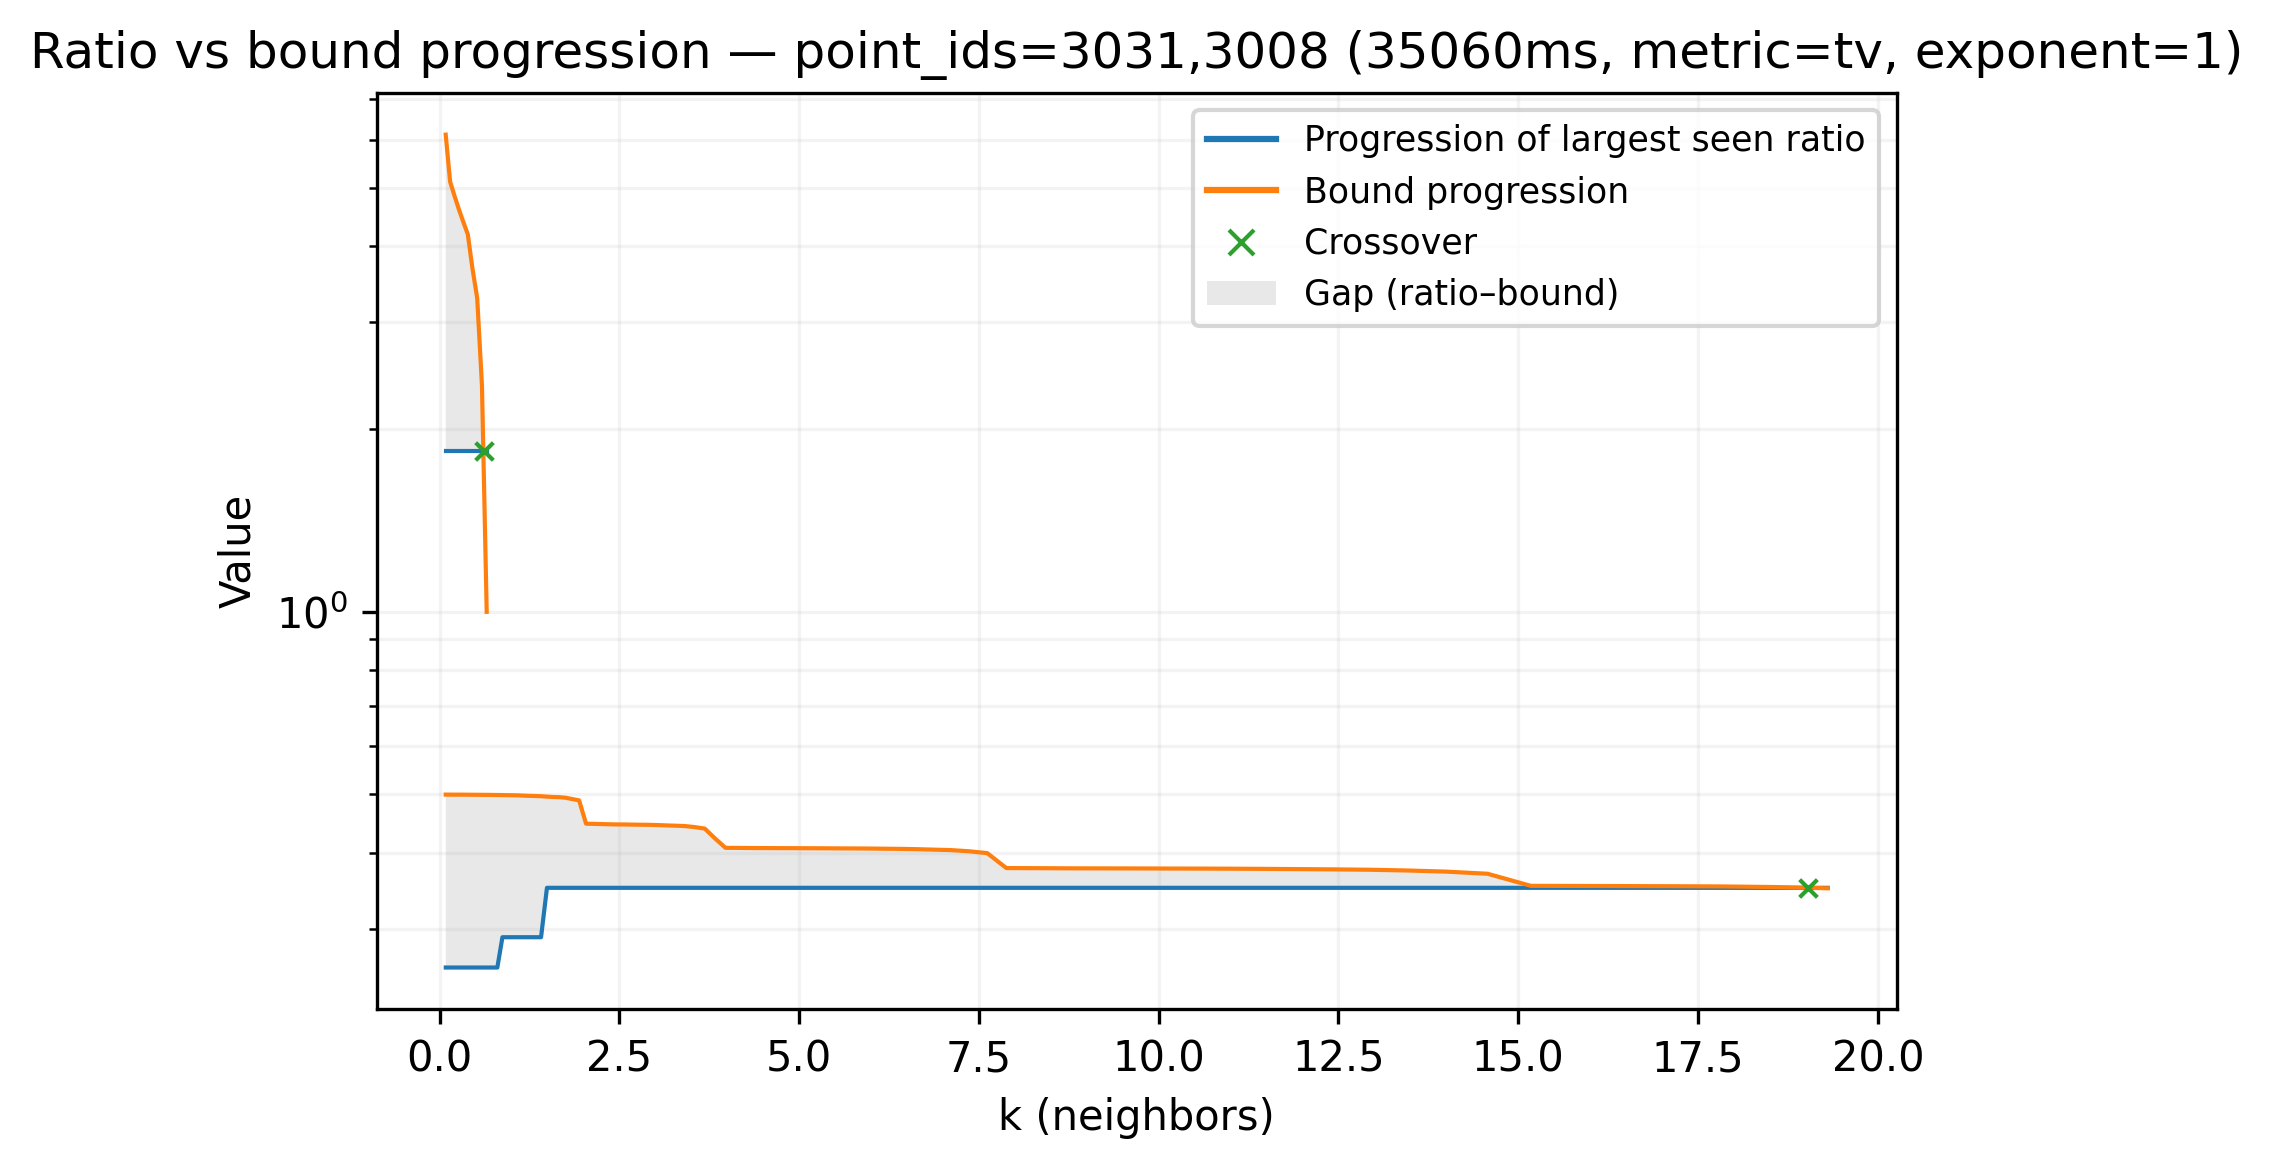
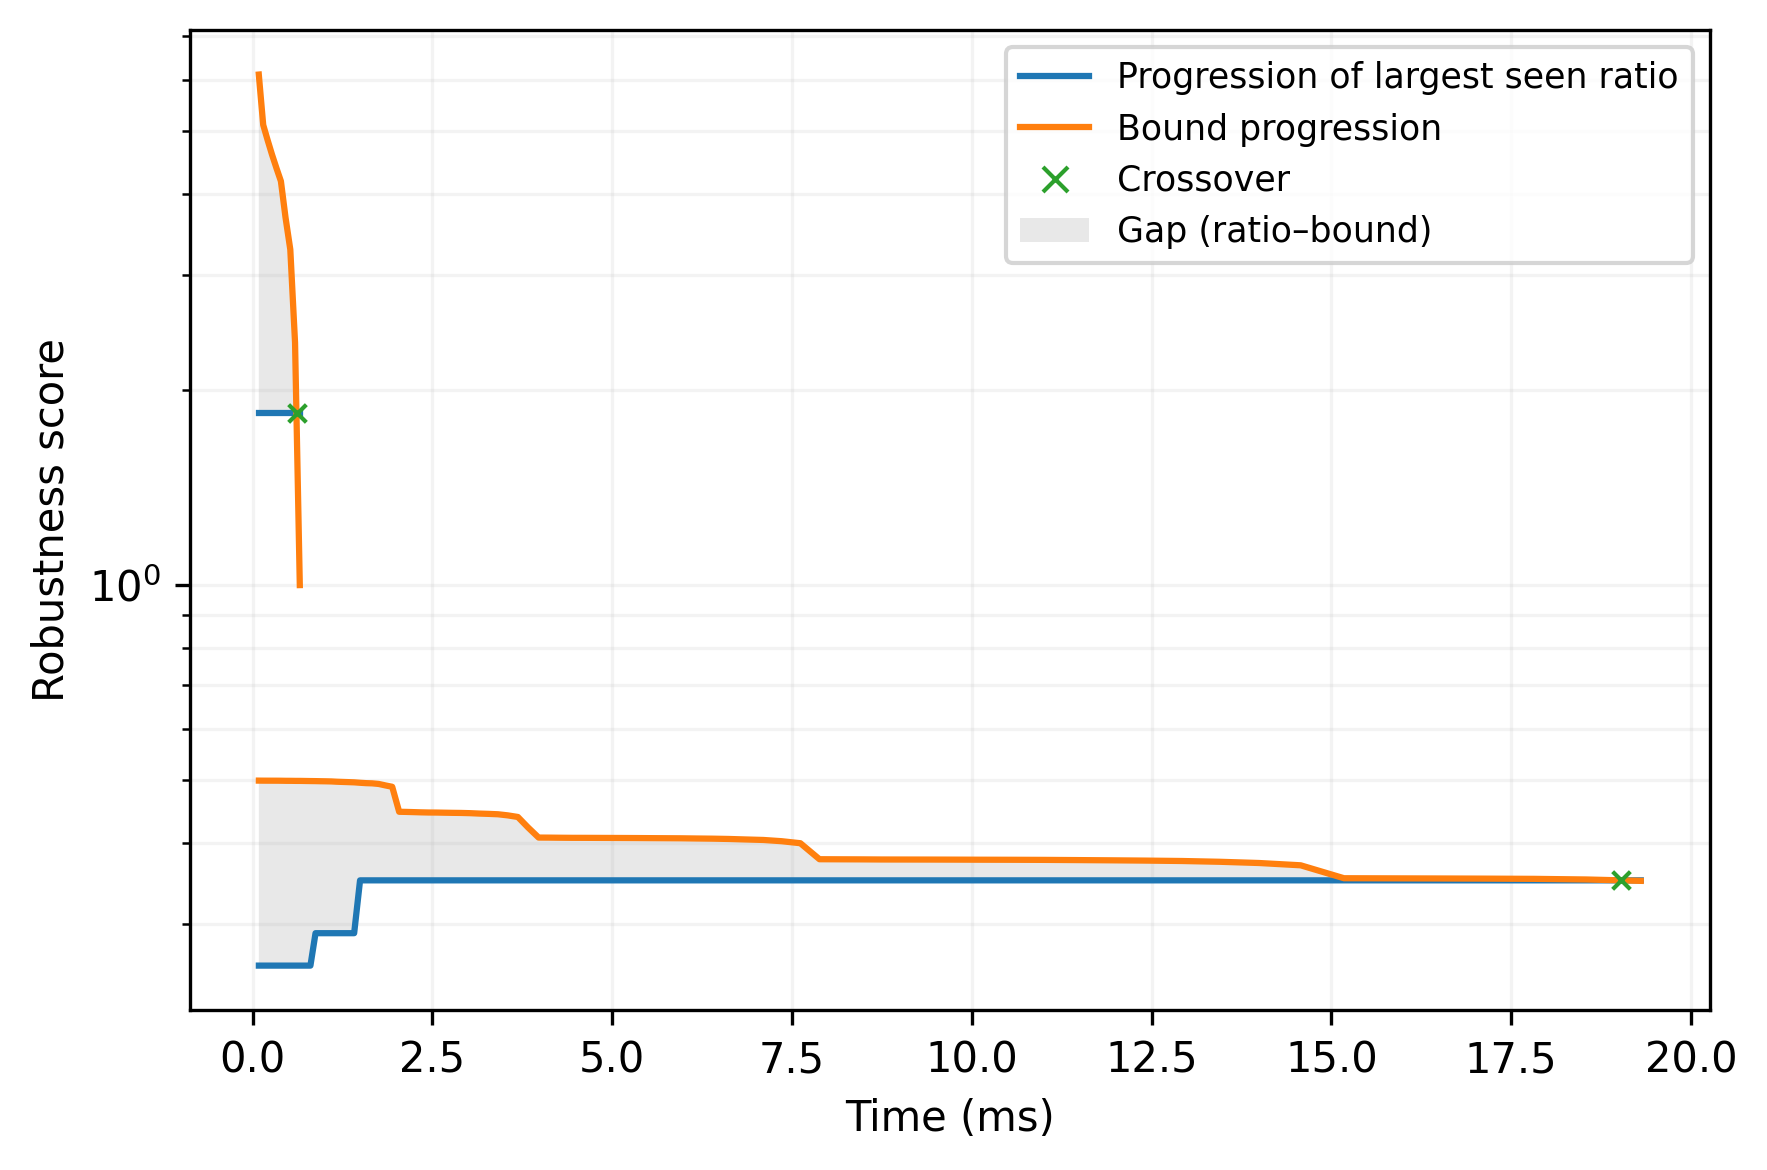
polish progressions plot

diff --git a/results/quantitative/plot_progressions.py b/results/quantitative/plot_progressions.py
@@ -82,6 +82,16 @@ def main() -> None:
         type=str,
         help="Comma-separated point IDs to plot instead of automatic top selections",
     )
+    parser.add_argument(
+        "--no-title",
+        action="store_true",
+        help="Whether to include figure title",
+    )
+    parser.add_argument(
+        "--use-time",
+        action="store_true",
+        help="Use ms_progression values for the x-axis instead of k_progression",
+    )
     args = parser.parse_args()
 
     script_dir = Path(__file__).resolve().parent
@@ -98,6 +108,8 @@ def main() -> None:
             fill_between=args.fill_between,
             output_dir=args.output_dir,
             point_ids=point_ids,
+            use_time=args.use_time,
+            no_title=args.no_title,
         )
 
 
@@ -110,11 +122,13 @@ def _generate_plots(
     fill_between: bool,
     output_dir: Optional[Path],
     point_ids: Optional[list[int]],
+    use_time: bool,
+    no_title: bool,
 ) -> None:
     with json_path.open("r", encoding="utf-8") as fh:
         payload = json.load(fh)
 
-    records = _filter_records(payload.get("records", []))
+    records = _filter_records(payload.get("records", []), require_time=use_time)
     if not records:
         print(f"No progression records found in {json_path}")
         return
@@ -177,6 +191,8 @@ def _generate_plots(
             alpha=alpha,
             line_width=line_width,
             fill_between=fill_between,
+            use_time=use_time,
+            no_title=no_title,
         )
         return
 
@@ -196,6 +212,8 @@ def _generate_plots(
             alpha=alpha,
             line_width=line_width,
             fill_between=fill_between,
+            use_time=use_time,
+            no_title=no_title,
         )
     else:
         print(f"No records with compared_count data in {json_path}")
@@ -211,12 +229,14 @@ def _generate_plots(
             alpha=alpha,
             line_width=line_width,
             fill_between=fill_between,
+            use_time=use_time,
+            no_title=no_title,
         )
     else:
         print(f"No records with max_ratio data in {json_path}")
 
 
-def _filter_records(raw_records: Iterable[dict]) -> list[dict]:
+def _filter_records(raw_records: Iterable[dict], *, require_time: bool) -> list[dict]:
     filtered = []
     for record in raw_records:
         k = record.get("k_progression")
@@ -226,6 +246,10 @@ def _filter_records(raw_records: Iterable[dict]) -> list[dict]:
             continue
         if len(k) != len(ratio) or len(k) != len(bound):
             continue
+        if require_time:
+            ms = record.get("ms_progression")
+            if not ms or len(ms) != len(ratio):
+                continue
         filtered.append(record)
     return filtered
 
@@ -251,6 +275,8 @@ def _render_overlay(
     alpha: float,
     line_width: float,
     fill_between: bool,
+    use_time: bool,
+    no_title: bool,
 ) -> None:
     fig, ax = plt.subplots(figsize=DEFAULT_FIGSIZE)
 
@@ -260,9 +286,18 @@ def _render_overlay(
     intersection_points_y: list[float] = []
 
     for record in records:
-        k_vals = np.asarray(record["k_progression"], dtype=float)
-        ratio_vals = np.asarray(record["ratio_progression"], dtype=float)[-len(k_vals):]
-        bound_vals = np.asarray(record["bound_progression"], dtype=float)[-len(k_vals):]
+        x_key = "ms_progression" if use_time else "k_progression"
+        x_vals = np.asarray(record[x_key], dtype=float)
+        ratio_vals = np.asarray(record["ratio_progression"], dtype=float)
+        bound_vals = np.asarray(record["bound_progression"], dtype=float)
+
+        limit = min(len(x_vals), len(ratio_vals), len(bound_vals))
+        x_vals = x_vals[:limit]
+        ratio_vals = ratio_vals[:limit]
+        bound_vals = bound_vals[:limit]
+
+        if limit == 0:
+            continue
 
         ratio_min = float(np.nanmin(ratio_vals))
         bound_min = float(np.nanmin(bound_vals))
@@ -270,7 +305,7 @@ def _render_overlay(
         min_bound = bound_min if min_bound is None else min(min_bound, bound_min)
 
         optional_intersection = _add_progression_to_ax(
-            ax, k_vals, ratio_vals, bound_vals,
+            ax, x_vals, ratio_vals, bound_vals,
             alpha=alpha,
             line_width=line_width,
             fill_between=fill_between,
@@ -291,7 +326,7 @@ def _render_overlay(
         zorder=5,
     )
 
-    _configure_axes(fig, ax, metadata, description, min_ratio, min_bound)
+    _configure_axes(fig, ax, metadata, description, min_ratio, min_bound, use_time, fill_between, no_title)
 
     fig.savefig(output_path, dpi=DEFAULT_DPI, bbox_inches="tight")
     print(f"Saved progression overlay to {output_path}")
@@ -300,7 +335,7 @@ def _render_overlay(
 
 def _add_progression_to_ax(
     ax: plt.Axes,
-    k_vals: np.ndarray,
+    x_vals: np.ndarray,
     ratio_vals: np.ndarray,
     bound_vals: np.ndarray,
     *,
@@ -308,8 +343,8 @@ def _add_progression_to_ax(
     line_width: float,
     fill_between: bool,
 ) -> Optional[tuple[float, float]]:
-    ax.plot(k_vals, ratio_vals, color=RATIO_COLOR, linewidth=line_width, alpha=alpha)
-    ax.plot(k_vals, bound_vals, color=BOUND_COLOR, linewidth=line_width, alpha=alpha)
+    ax.plot(x_vals, ratio_vals, color=RATIO_COLOR, linewidth=line_width, alpha=alpha)
+    ax.plot(x_vals, bound_vals, color=BOUND_COLOR, linewidth=line_width, alpha=alpha)
 
     # shading between ratio and bound
     if fill_between:
@@ -318,7 +353,7 @@ def _add_progression_to_ax(
             last_valid_idx = np.where(ratio_vals < bound_vals)[0][-1]
 
         ax.fill_between(
-            k_vals[:last_valid_idx + 1],
+            x_vals[:last_valid_idx + 1],
             ratio_vals[:last_valid_idx + 1],
             bound_vals[:last_valid_idx + 1],
             facecolor=FILL_COLOR,
@@ -327,11 +362,11 @@ def _add_progression_to_ax(
             zorder=0,
         )
 
-    return _find_intersection(k_vals, ratio_vals, bound_vals)
+    return _find_intersection(x_vals, ratio_vals, bound_vals)
 
 
 def _find_intersection(
-    k_vals: np.ndarray,
+    x_vals: np.ndarray,
     ratio_vals: np.ndarray,
     bound_vals: np.ndarray,
 ) -> Optional[tuple[float, float]]:
@@ -339,16 +374,16 @@ def _find_intersection(
     for idx, current in enumerate(diff):
         if current >= 0:
             if idx == 0 or diff[idx - 1] >= 0:
-                return float(k_vals[idx]), float(ratio_vals[idx])
+                return float(x_vals[idx]), float(ratio_vals[idx])
 
             prev_diff = diff[idx - 1]
             if prev_diff == current:
-                return float(k_vals[idx]), float(ratio_vals[idx])
+                return float(x_vals[idx]), float(ratio_vals[idx])
 
-            prev_k = k_vals[idx - 1]
+            prev_k = x_vals[idx - 1]
             prev_ratio = ratio_vals[idx - 1]
             prev_bound = bound_vals[idx - 1]
-            curr_k = k_vals[idx]
+            curr_k = x_vals[idx]
             curr_ratio = ratio_vals[idx]
             # Linear interpolation on diff to approximate crossing location.
             denom = prev_diff - current
@@ -371,14 +406,18 @@ def _configure_axes(
     description: str,
     min_ratio: Optional[float],
     min_bound: Optional[float],
+    use_time: bool,
+    fill_between: bool,
+    no_title: bool,
 ) -> None:
-    ax.set_xlabel("k (neighbors)")
-    ax.set_ylabel("Value")
+    ax.set_xlabel("Time (ms)" if use_time else "k (neighbors)")
+    ax.set_ylabel("Robustness score")
 
-    try:
-        ax.set_xscale("log", base=2)
-    except TypeError:
-        ax.set_xscale("log")
+    if not use_time:
+        try:
+            ax.set_xscale("log", base=2)
+        except TypeError:
+            ax.set_xscale("log")
 
     finite_mins = [val for val in (min_ratio, min_bound) if val is not None and np.isfinite(val)]
     if finite_mins and min(finite_mins) > 0:
@@ -407,14 +446,17 @@ def _configure_axes(
         title += f" — {description}"
     if meta_bits:
         title += f" ({', '.join(meta_bits)})"
-    ax.set_title(title)
+    if not no_title: ax.set_title(title)
 
     legend_handles = [
         plt.Line2D([], [], color=RATIO_COLOR, linewidth=1.5, label="Progression of largest seen ratio"),
         plt.Line2D([], [], color=BOUND_COLOR, linewidth=1.5, label="Bound progression"),
         plt.Line2D([], [], marker="x", color=INTERSECTION_COLOR, linestyle="", markersize=6, label="Crossover"),
-        plt.Rectangle((0, 0), 1, 1, facecolor=FILL_COLOR, alpha=0.5, label="Gap (ratio–bound)"),
     ]
+    if fill_between:
+        legend_handles.append(
+            plt.Rectangle((0, 0), 1, 1, facecolor=FILL_COLOR, alpha=0.5, label="Gap (ratio–bound)"),
+        )
     ax.legend(handles=legend_handles, loc="best", fontsize="small")
     ax.grid(True, which="both", alpha=0.15)
     fig.tight_layout()

diff --git a/results/quantitative/plot_progressions_percentiles.py b/results/quantitative/plot_progressions_percentiles.py
@@ -63,7 +63,7 @@ def main() -> None:
         if args.output_dir is not None:
             cmd.extend(["--output-dir", str(args.output_dir)])
 
-        cmd.extend(["--line-width", "1", "--fill-between", "--alpha", "1"])
+        cmd.extend(["--use-time", "--no-title", "--line-width", "1.5", "--fill-between", "--alpha", "1"])
 
         cmd.extend(extra_args)
 
